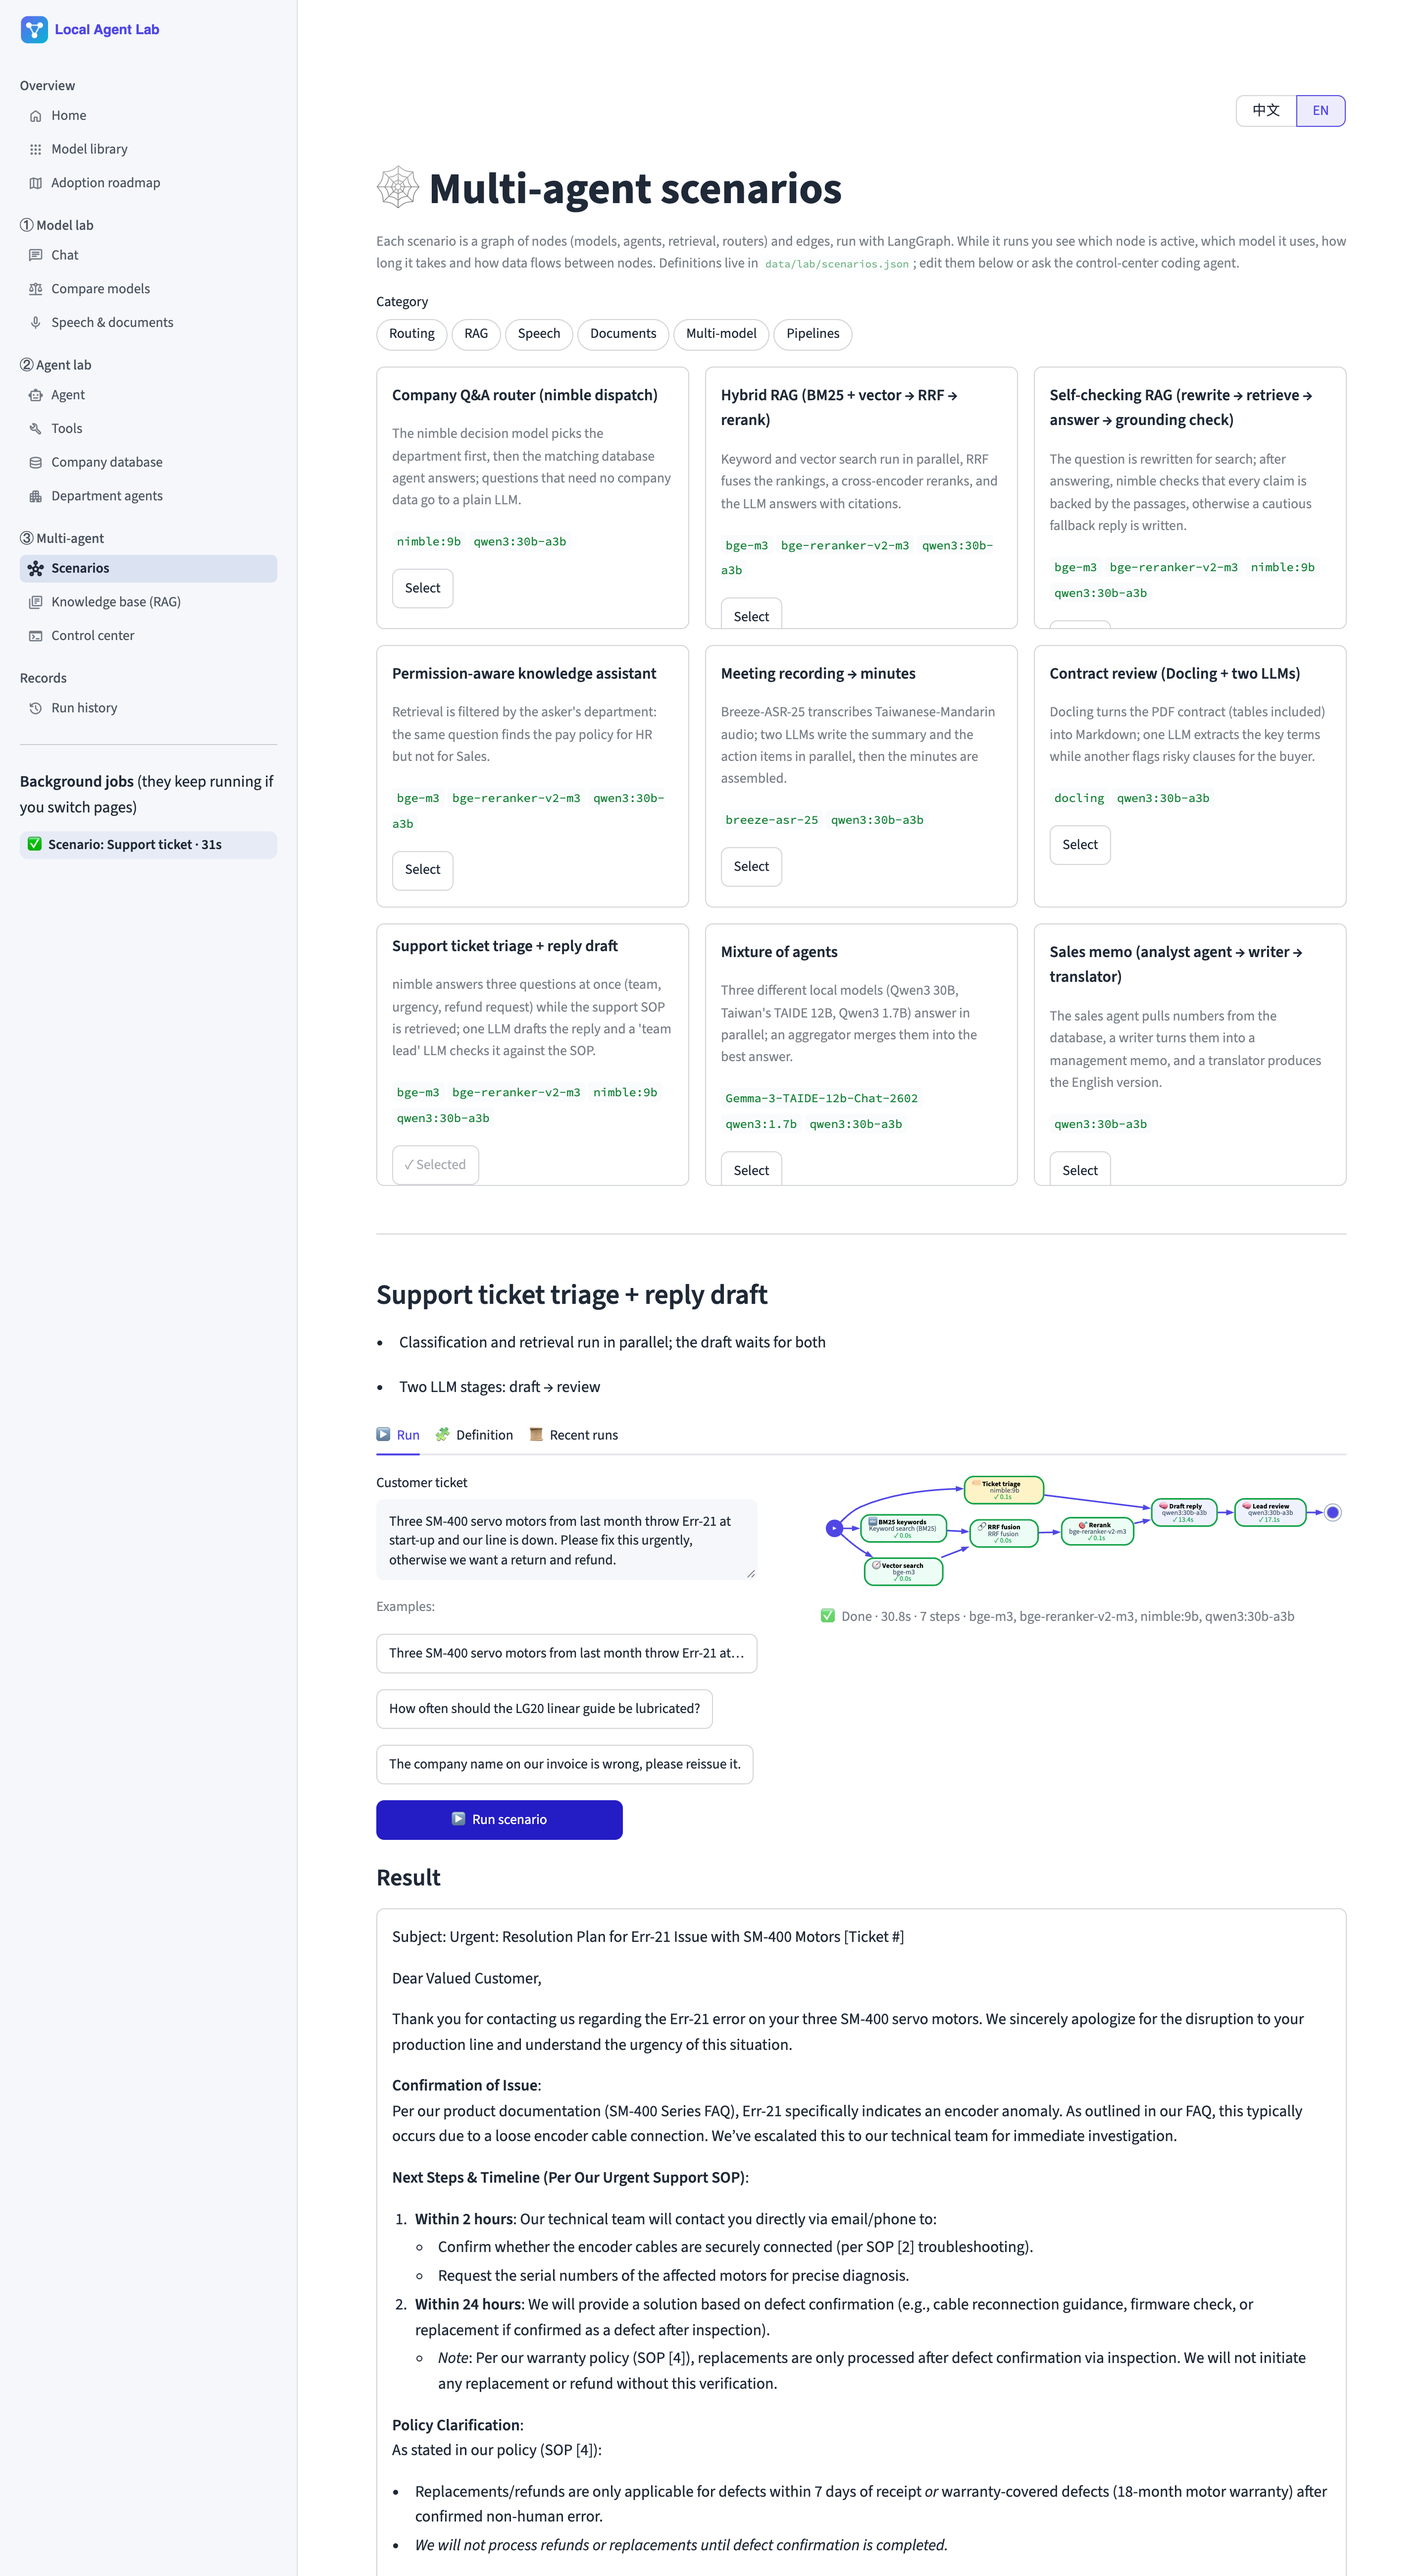
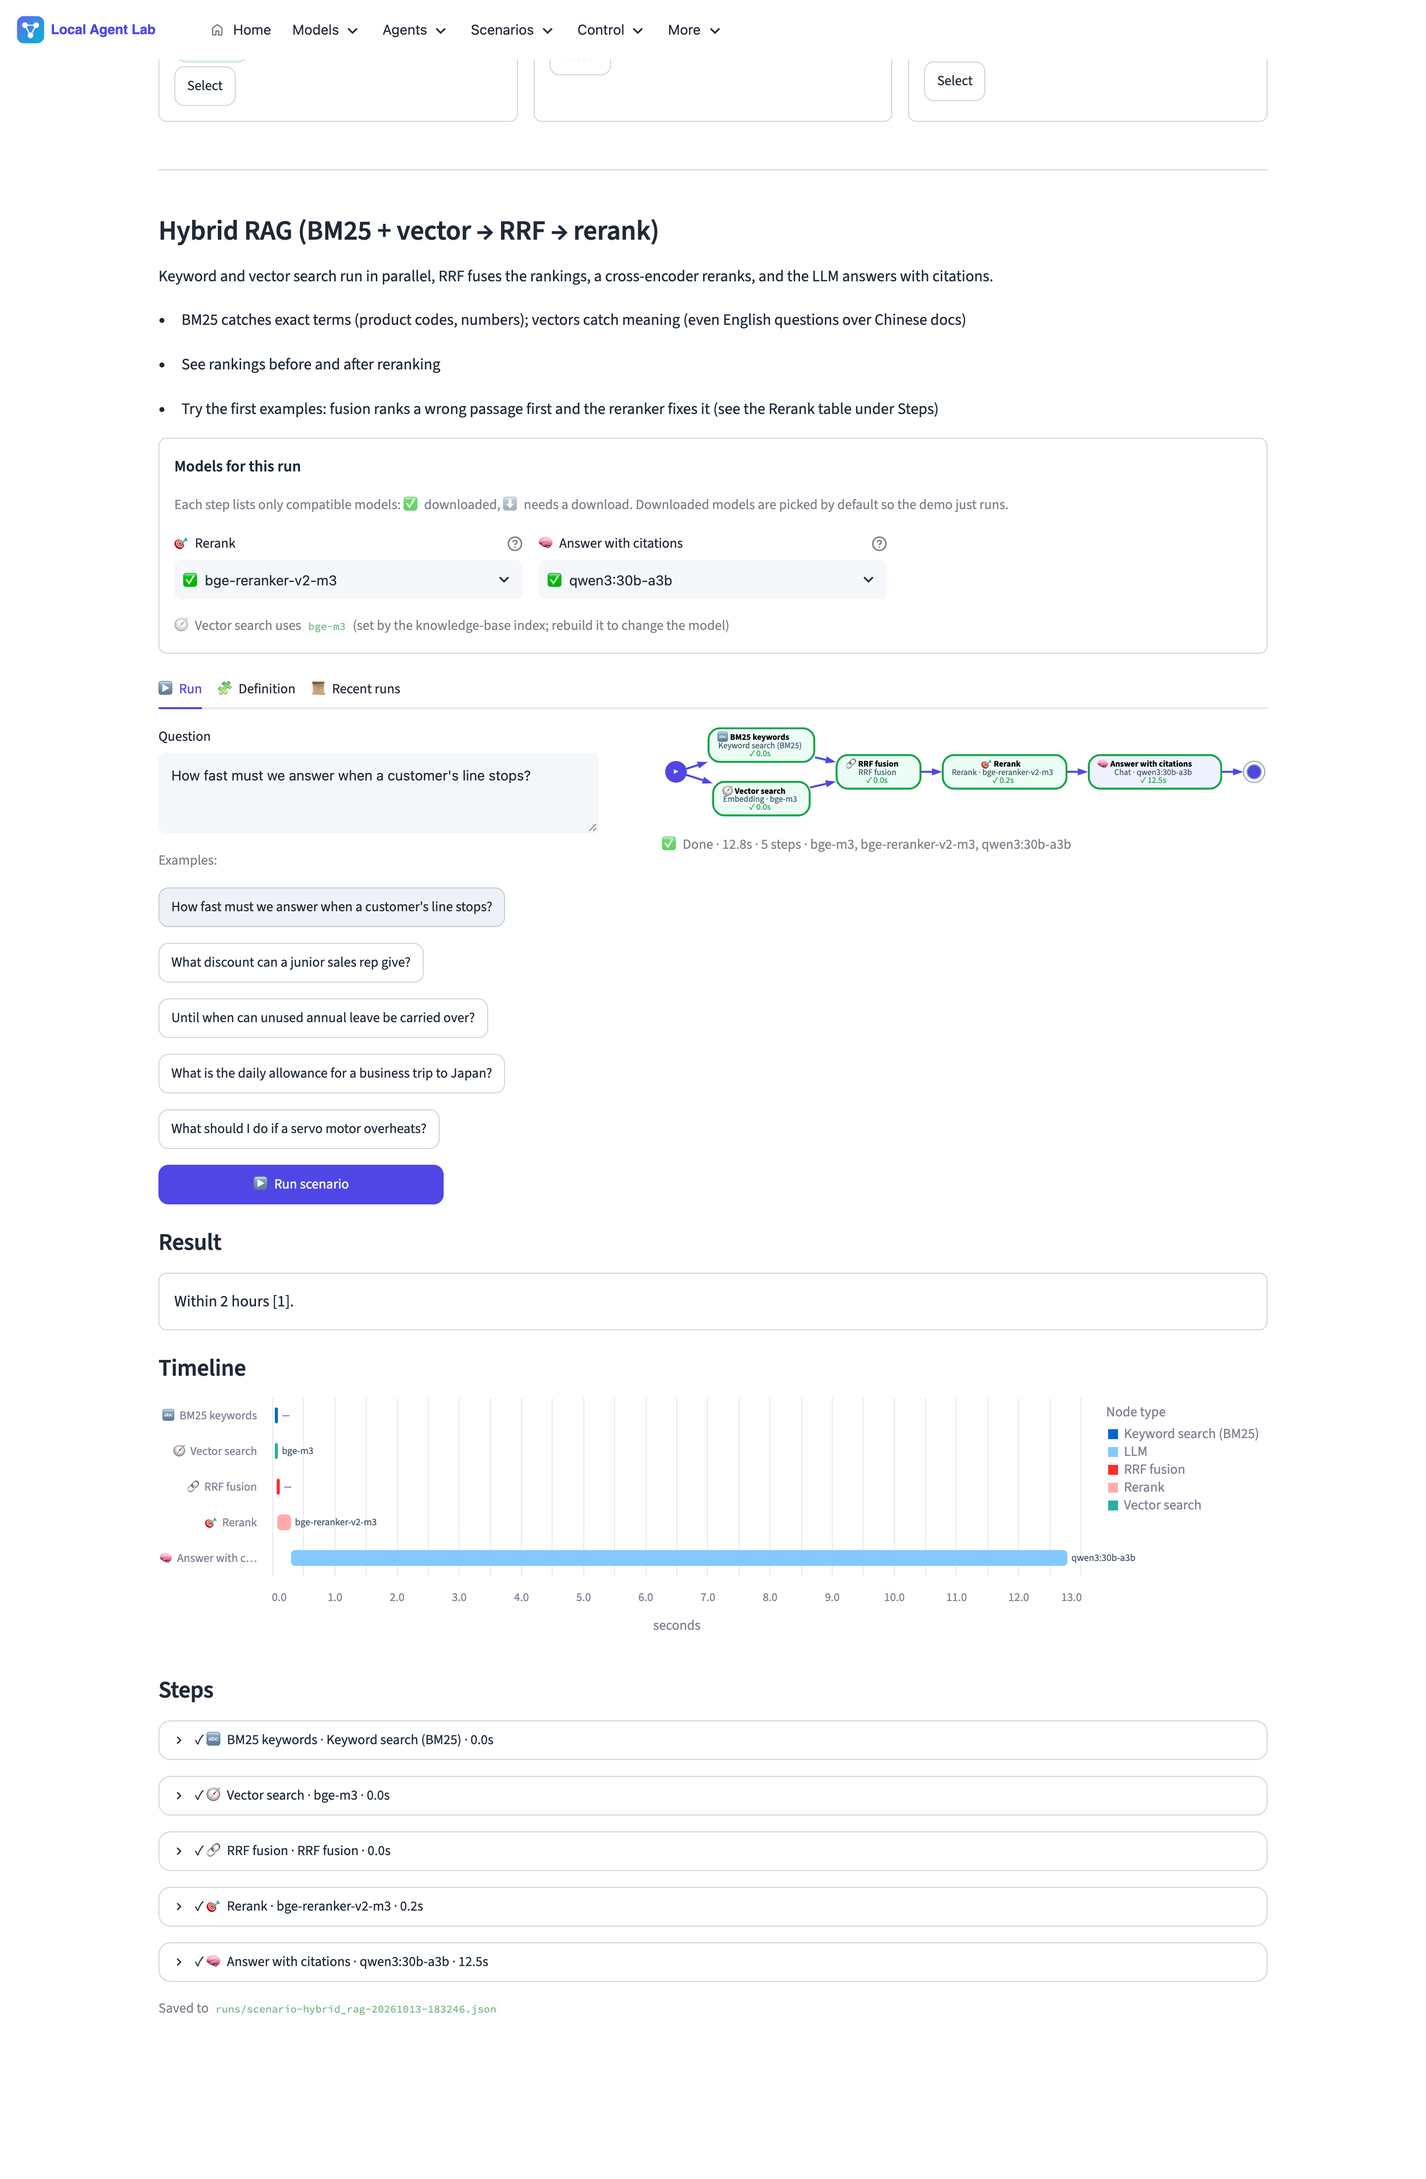
Update READMEs and screenshots for the redesigned UI and local coding agent

diff --git a/README.md b/README.md
@@ -11,16 +11,19 @@ Local Agent Lab is a Streamlit workbench built on Ollama, LangChain 1.x / LangGr
 self-built model gateway (speech, document parsing, reranking), and PostgreSQL. It does two
 things:
 
-1. **Benchmark local LLMs.** Browse 54+ open models by size tier and task, download them with
-   one click, and compare up to six models side by side on the same prompt (answers, time to
-   first token, tokens/s, an optional LLM judge). You can also watch every LLM call and tool
-   call an agent makes.
+1. **Benchmark local LLMs.** Browse 107 local models with capability tags (tools, thinking,
+   vision, code, embedding, decision, ASR, OCR, rerank, Taiwan-tuned, licence…), download them
+   with one click, and compare up to six models side by side on the same prompt (answers, time
+   to first token, tokens/s, an optional LLM judge). The home page shows which models are loaded,
+   how much memory they use and which tasks are running.
 2. **Demo multi-agent scenarios.** Nine ready-made workflows run as LangGraph graphs: routing
    with a decision model, hybrid RAG, self-checking RAG, permission-aware retrieval, meeting
    audio → minutes, contract review, support triage, a mixture of agents, and an analyst →
-   writer → translator pipeline. Each run has a live flow diagram and a timeline. A
-   control-center coding agent rewires scenarios and agents from plain-language instructions;
-   every change is approved as a diff and can be rolled back.
+   writer → translator pipeline. Each run has a live flow diagram and a timeline, and every
+   step's model can be swapped for a compatible one (downloaded models are the default). Build
+   agents in the **Agent studio** (model, system prompt, tools, skills, database identity), ask
+   several agents the same question, and let a **fully local coding agent** change agents,
+   scenarios or code — every change is approved as a diff and can be rolled back.
 
 The UI is bilingual (中文 / EN, switch in the top-right corner). The demo company and all of
 its data are fictional.
@@ -34,7 +37,10 @@ its data are fictional.
 | **Hybrid, permission-aware RAG** | BM25 (CJK bigrams) and bge-m3 vectors run in parallel, then RRF, then a bge-reranker-v2-m3 cross-encoder. Documents carry department tags, and restricted passages are filtered out *before* they can reach a prompt. |
 | **Model gateway** | Ollama-like download / lazy-load / idle-unload and OpenAI-style endpoints for models Ollama can't serve: Breeze-ASR-25 (Taiwanese Mandarin ASR), Whisper, Docling, rerankers. |
 | **Governed agents** | Database permissions are enforced by PostgreSQL roles, not by prompts. External APIs are off by default and capped per run, and each call needs human approval. |
-| **Coding agent with approvals** | It edits `agents.json` / `scenarios.json` through typed tools. Each write shows a diff and the validation result and waits for approval. Every version is kept. |
+| **Agent studio** | Pick a model, write the system prompt, choose tools and skills, set a database identity, test it in a chat, and save it as a new agent. |
+| **Skills and MCP** | 25 tools (12 from local MCP servers: time, git, fetch, files) and 11 Agent Skills (`SKILL.md`, loaded on demand; 3 imported from open-source repos). |
+| **Identity-scoped database** | Six PostgreSQL identities (sales, HR, support, finance, management, intern). Preview any table as any identity and see the permission matrix. |
+| **Local coding agent** | `uv run local-agent code` or the Control page. Settings mode changes `agents.json` / `scenarios.json` through validated tools; code mode also edits Python, runs pytest/ruff, and backs up every file. Each write shows a diff and waits for approval. Default model `qwen3.6:35b-a3b-coding`. See [docs/LOCAL_CODING_AGENT.md](docs/LOCAL_CODING_AGENT.md). |
 | **Background jobs** | Chats, agent runs, comparisons, scenarios and downloads keep running when you switch pages. |
 
 ## Scenarios
@@ -51,7 +57,7 @@ its data are fictional.
 | Mixture of agents | [Qwen3 30B ‖ TAIDE 12B ‖ Qwen3 1.7B] → aggregator | 3 local models |
 | Sales memo | DB analyst agent → writer → translator | qwen3 |
 
-![Scenario running: live flow diagram and timeline](docs/screenshots/scenario_running.png)
+![A finished hybrid RAG run: per-step model choice, flow, timeline and steps](docs/screenshots/scenario.png)
 
 ## Measured on an M5 Pro (64 GB)
 
@@ -63,7 +69,8 @@ its data are fictional.
 | Hybrid RAG, end to end | ~10 s (retrieval ~1 s, rerank 0.1–0.6 s, answer ~8 s) |
 | Router → DB agent (4 tool calls) | ~32 s |
 | Mixture of agents (3 models in parallel + aggregator) | ~30 s |
-| Coding agent: inspect → propose → approve → self-correct | ~60 s |
+| Coding agent, qwen3.6:35b-a3b-coding (~80–90 tok/s) | change a scenario model 14 s; add a tool + tests + register it 113–156 s; fix a failing test 23 s (all passed) |
+| Coding agent, qwen3.8:27b (~30 tok/s) | same three tasks passed, 2–4× slower |
 | Breeze-ASR-25 (MLX, converted locally from the official weights) | 88 s of meeting audio in ~6–8 s; ~6.7 % character error rate on the synthetic sample |
 | Whisper large-v3-turbo (MLX) | 5–6 s on the same audio, but it outputs Simplified Chinese and hallucinates an outro, which is why Breeze is the default |
 | Docling (3-page PDF, 4 tables) | 1.2–4 s warm (first call ~17 s, including model load); tables come through intact |
@@ -120,11 +127,13 @@ app/                    Streamlit UI (main.py, views/, i18n.py, jobs.py, flow_ui
 src/local_llm/
   lab/                  scenario engine: nodes, engine, store (validation + history), rag, decide, control
   gateway/              model gateway (FastAPI) + gateway_client.py
+  coder/                local coding agent (workspace tools, agent, terminal REPL)
   agents.py             agent registry (reads data/lab/agents.json), tool policies
+  skills.py, mcp_tools.py  Agent Skills loader and local MCP tool servers
   company_db.py         fictional company in PostgreSQL with department roles
   streaming.py          streaming chat with TTFT / tokens/s
-data/lab/               agents.json, scenarios.json, corpus/ (knowledge base), samples/
-docs/                   SCENARIOS.md, GATEWAY.md, ADOPTION_ROADMAP.md, screenshots/
+data/lab/               agents.json, scenarios.json, skills/, corpus/ (knowledge base), samples/
+docs/                   SCENARIOS.md, GATEWAY.md, LOCAL_CODING_AGENT.md, ADOPTION_ROADMAP.md
 tests/                  engine, RAG, coding-agent planning, gateway, tools (no models needed)
 ```
 
@@ -132,10 +141,12 @@ tests/                  engine, RAG, coding-agent planning, gateway, tools (no m
 
 | | |
 |---|---|
-| ![Knowledge base: BM25, vector, RRF and rerank side by side](docs/screenshots/knowledge.png) | ![Model library: gateway models with one-click download](docs/screenshots/models_gateway.png) |
-| *Knowledge base: four rankings side by side* | *Model library: non-Ollama models served by the gateway* |
-| ![A finished scenario with its result and steps](docs/screenshots/scenario.png) | ![Home](docs/screenshots/home.png) |
-| *A finished run, with its result and per-step details* | *Home* |
+| ![Model library with capability tags](docs/screenshots/models.png) | ![Agent studio](docs/screenshots/agent_studio.png) |
+| *Model library: 107 local models with capability tags* | *Agent studio: model, prompt, tools, skills, DB identity* |
+| ![Knowledge base: pipeline and rerank demo](docs/screenshots/knowledge.png) | ![Local coding agent](docs/screenshots/control.png) |
+| *Knowledge base: BM25, vector, RRF and rerank side by side* | *Control center: the local coding agent* |
+| ![Company database by identity](docs/screenshots/company.png) | ![Adoption roadmap](docs/screenshots/roadmap.png) |
+| *Company database previewed as different identities* | *Adoption roadmap: journey and 12-week plan* |
 
 ## Design notes
 
